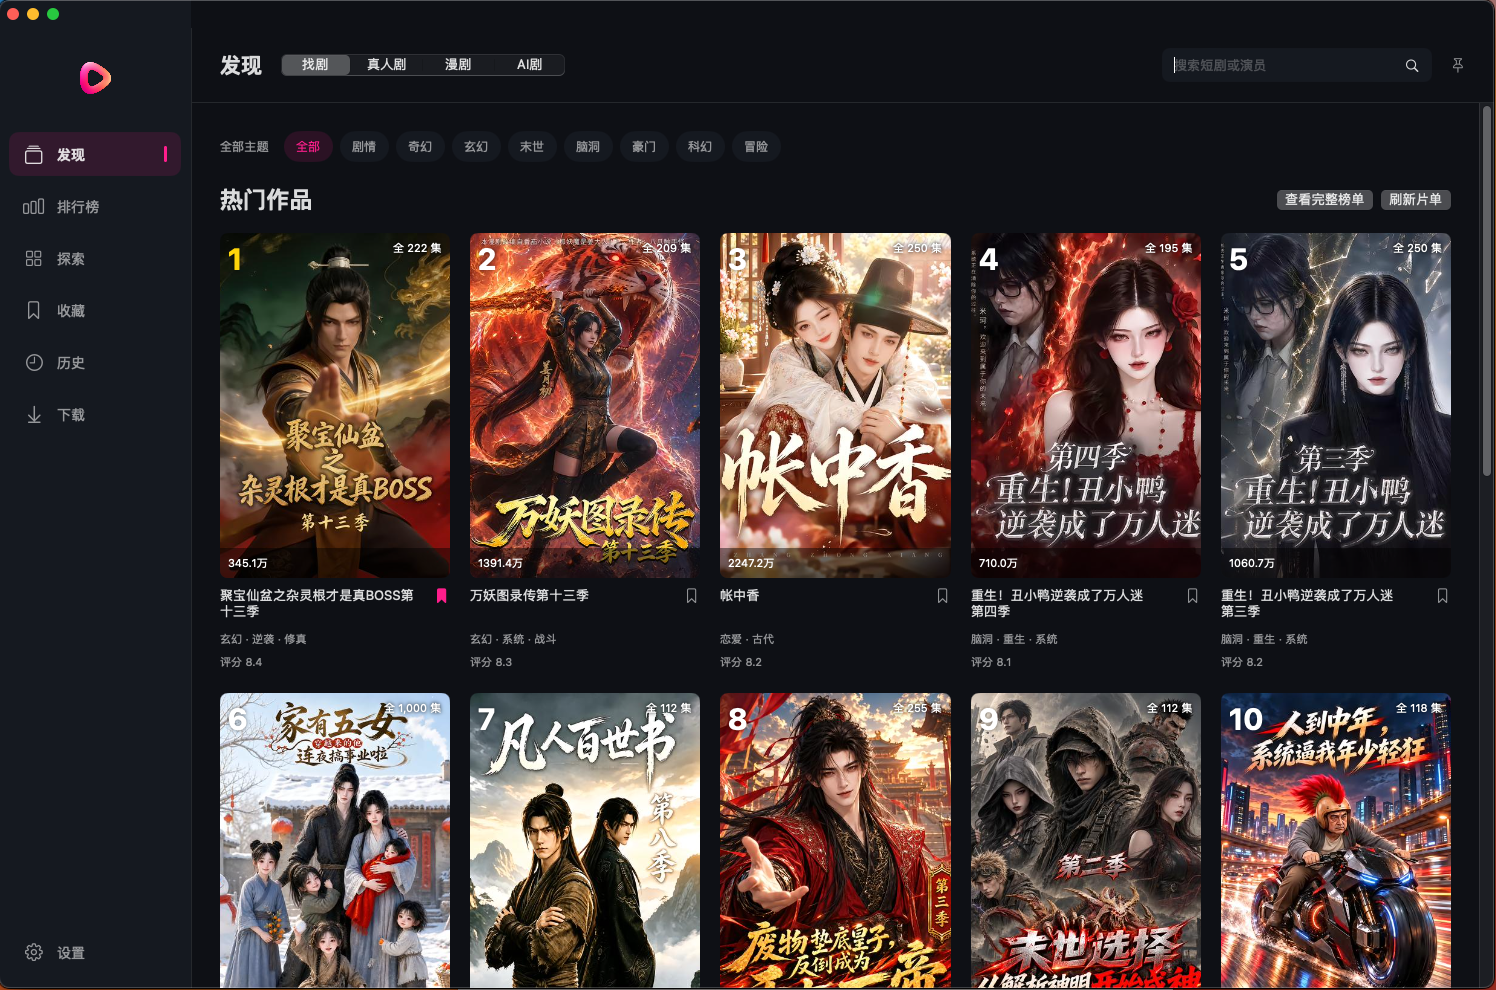
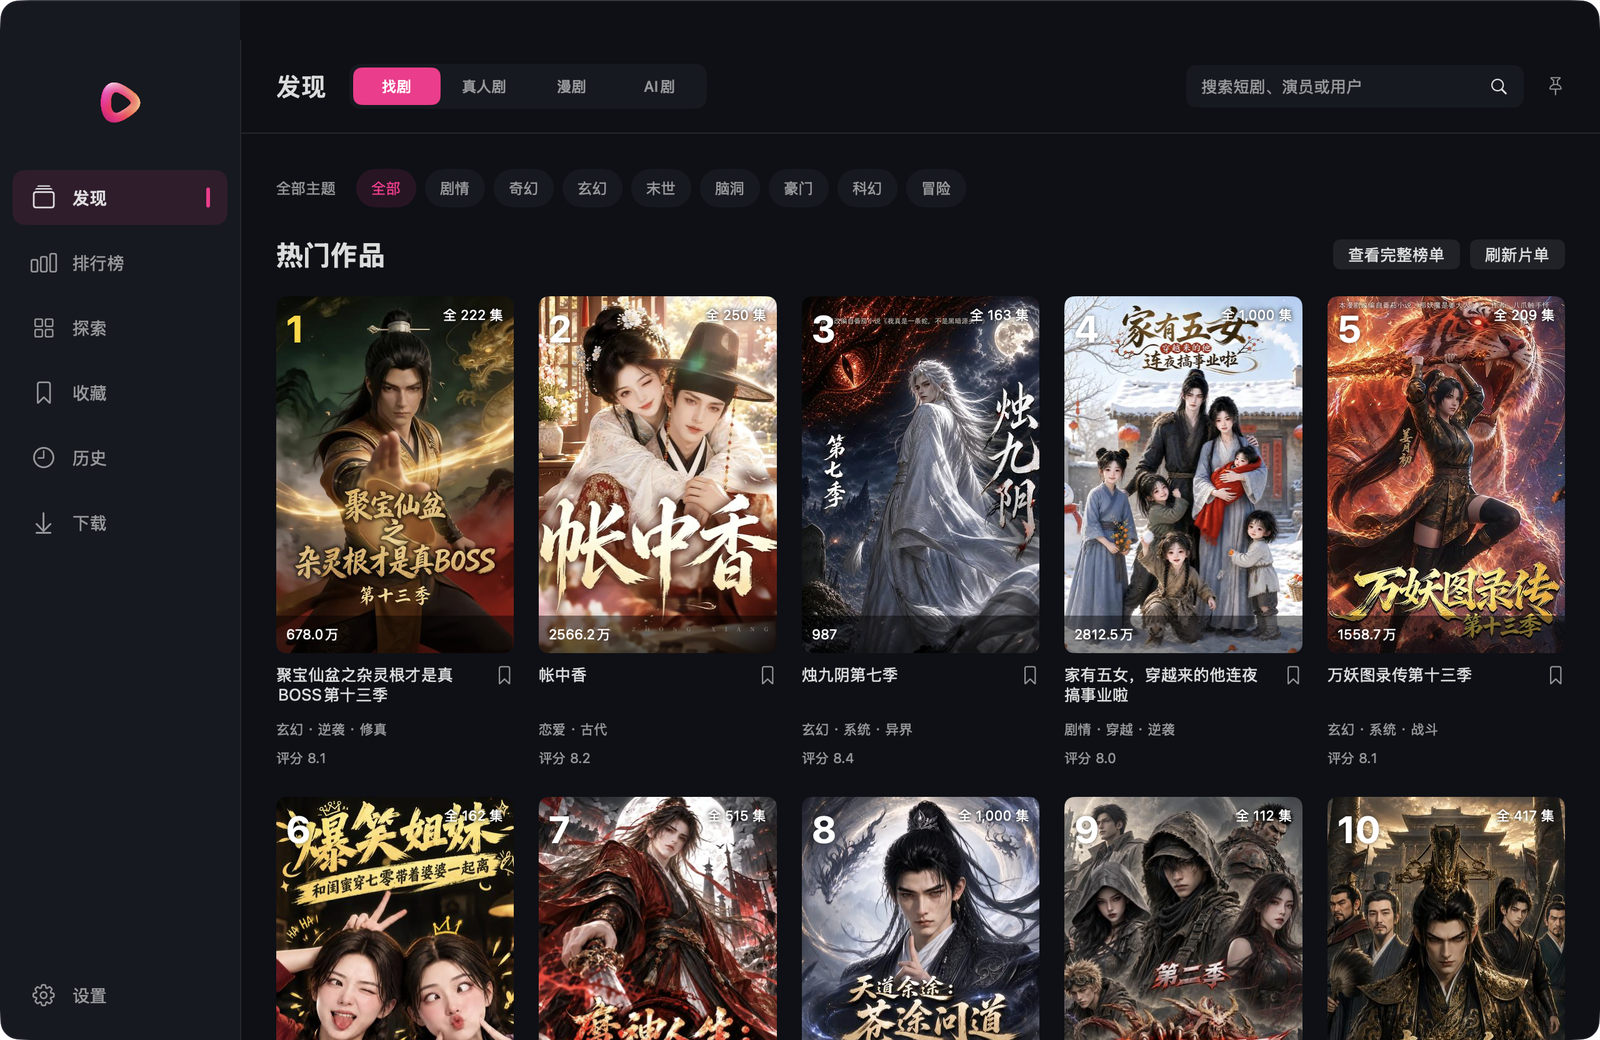
Refresh README with new screenshots and a concise feature overview

diff --git a/README.md b/README.md
@@ -6,82 +6,60 @@
 
 <p align="center">Mac 上点进就播，下次回来接着看。</p>
 
-[![Release](https://img.shields.io/github/v/release/JialaoLiu/hongguo-mac-release?label=release&color=ff1f8c)](https://github.com/JialaoLiu/hongguo-mac-release/releases/latest)
-[![Build](https://img.shields.io/badge/build-41%20%7C%20macOS%2013%2B%20arm64-303036)](https://github.com/JialaoLiu/hongguo-mac-release/releases/latest)
+<p align="center">
+  <a href="https://github.com/JialaoLiu/hongguo-mac-release/releases/latest"><img src="https://img.shields.io/github/v/release/JialaoLiu/hongguo-mac-release?label=release&color=ff1f8c" alt="Release" /></a>
+  <a href="https://github.com/JialaoLiu/hongguo-mac-release/releases/latest"><img src="https://img.shields.io/badge/build-41%20%7C%20macOS%2013%2B%20arm64-303036" alt="Build" /></a>
+</p>
 
-## 为什么做这个
+<p align="center">
+  <a href="https://github.com/JialaoLiu/hongguo-mac-release/releases/latest"><b>下载最新版</b></a> ·
+  <a href="https://github.com/JialaoLiu/hongguo-mac-release/issues">反馈问题</a> ·
+  <a href="docs/BUGS.md">问题与修复记录</a> ·
+  <a href="#项目声明">项目声明</a>
+</p>
 
-起因很简单：我先看到了 [waligoraamodio288-rgb 的红果桌面版](https://github.com/waligoraamodio288-rgb/hongguo-desktop-releases)。作为一个摸鱼党，也想在 Mac 上用，但当时没找到能直接拿来用的 Mac 版本。
-
-那就自己 vibe 一个。先做给自己用，也放出来给大家一起用。
-
-**不用手机 App，不用另装 Java、FFmpeg 或 Homebrew。** 找剧、选集、续播、看评论，在一个桌面窗口里完成。
-
-**当前版本：0.8.0 · build 41**
-
-[下载安装包](https://github.com/JialaoLiu/hongguo-mac-release/releases/latest) · [反馈问题](https://github.com/JialaoLiu/hongguo-mac-release/issues) · [问题与修复记录](docs/BUGS.md) · [使用许可](LICENSE) · [项目声明](#项目声明)
+起因很简单：我先看到了 [waligoraamodio288-rgb 的红果桌面版](https://github.com/waligoraamodio288-rgb/hongguo-desktop-releases)。作为一个摸鱼党，也想在 Mac 上用，但当时没找到能直接拿来用的 Mac 版本，那就自己 vibe 一个。
 
 ## 界面预览
 
-**首页 · 浅色**
+**浅色**
 
-![首页，五列两行展示热门作品](images/screenshots/discover-light.png)
+![首页：热门作品与分类](images/screenshots/discover-light.png)
 
-**正在观看**
+![观看页：弹幕、简介与选集，看过的集显示为灰色](images/screenshots/watching-light.png)
 
-![在线播放、简介与选集](images/screenshots/watching-light.png)
+**深色**
+
+![全屏播放时在右侧展开评论卡片](images/screenshots/fullscreen-panel.png)
+
+![观看页的评论区与楼中楼](images/screenshots/comments-dark.png)
+
+![深色首页](images/screenshots/discover-dark.png)
 
 ## 下载与安装
 
-支持 **Apple Silicon（M 系列）和 macOS 13 及以上**。Intel（x86_64）版仍在适配，尚未提供安装包。
+支持 Apple Silicon（M 系列）、macOS 13 及以上。Intel 版仍在适配。
 
-1. 在 [Releases 下载最新版](https://github.com/JialaoLiu/hongguo-mac-release/releases/latest)的 `HongguoDrama-<版本>-arm64.dmg`。
-2. 打开 DMG，把 **红果短剧.app** 拖到右侧 **Applications**。
-3. 从 Applications 打开红果短剧。首次打开被拦截时，按下方带图步骤操作。
+1. 在 [Releases](https://github.com/JialaoLiu/hongguo-mac-release/releases/latest) 下载 `HongguoDrama-<版本>-arm64.dmg`。
+2. 打开 DMG，把 **红果短剧.app** 拖到 **Applications**。
+3. 从 Applications 打开。首次打开被拦截时，按[下方步骤](#首次打开被拦截怎么办)操作。
 
-只需下载 DMG，无需单独下载运行组件 ZIP，也不用另装 Java 或 FFmpeg。
+## 功能
 
-## 0.8.0 更新
-
-可以搜索普通用户，查看对方公开的收藏和点赞短剧，评论里点头像也能进入主页；对方设为仅自己可见的列表不会显示。全屏时右侧可展开简介、选集和评论，新增隔空播放，刘海屏全屏不再被遮挡。修复切集后残留上一集弹幕、进出全屏或切回应用后弹幕消失、全屏弹幕过快等问题，评论区和播放控件也重新设计。完整改动与验证记录见 [0.8.0 Release](https://github.com/JialaoLiu/hongguo-mac-release/releases/tag/v0.8.0)。
-
-## 看剧顺手，找剧省事
-
-| 想做什么 | 直接怎么用 |
+| | |
 | --- | --- |
-| 找一部剧 | 搜索剧名或演员，切换真人剧、漫剧、AI 剧 |
-| 看看别人在追什么 | 搜索切到“用户”，或在评论里点头像，查看对方公开的收藏和点赞短剧；未公开的不显示 |
-| 不知道看什么 | 看热播榜、刷发现页，探索里按主题筛选 |
-| 接着上次看 | 点进剧集就续播；没看过的从第一集开始 |
-| 找下一季 | 在相关作品里直接切换同系列其他季 |
-| 边做事边看 | 开启画中画小窗，主窗口自动收起；也可以切换视频全屏 |
-| 连着看不息屏 | 设置中开启“播放时防止屏幕休眠”，暂停后恢复系统设置 |
-| 调整播放 | 选画质、调倍速、拖进度；长按右方向键临时 2 倍速，松开恢复；全屏左侧调亮度，右侧调音量 |
-| 看弹幕 | 手动打开后记住选择，默认关闭；按 D 快速开关，可调透明度、速度、行数和字号 |
-| 投到电视 | 控制栏点“隔空播放”，选择 Apple TV 等设备 |
-| 查看快捷键 | 播放页点击问号；M 静音／恢复音量，首次观看会出现简短提示 |
-| 临时藏起来 | Command+B 暂停、静音并隐藏窗口，再按一次恢复；不改变系统音量 |
-| 看大家怎么说 | 当前集评论与原版表情，回复原位展开、每页 10 条；近期显示几小时前／几天前 |
-| 离线追剧 | 播放页缓存选集；下载页点击播放或继续观看，显示进度和速度，可全部下载／暂停或批量删除，全屏也能直接选集 |
-| 连着看下一集 | 选集上方开启自动下一集，默认打开；下一集提前缓存，自动缓存约 512 MB |
-| 专心看画面 | 简介、相关作品、评论分开展示，右栏可收起，播放控件自动隐藏；全屏时也能按 X 展开右侧卡片，指针随控件隐藏 |
-| 留着以后看 | 收藏和观看记录保存在本机 |
-| 换个外观 | 默认跟随系统，也可以选择浅色或深色 |
-| 更新软件 | 设置里检查更新，下载完成后自动替换并重启 |
+| 找剧 | 搜索剧名或演员；热播榜、发现页、按主题筛选，同系列其他季一键切换 |
+| 接着看 | 点进剧集就续播，看过的集显示为灰色；自动下一集并提前缓存 |
+| 弹幕 | 当前集真实弹幕，按 D 开关；可调透明度、速度、行数和字号 |
+| 全屏 | 按 X 在右侧展开简介、选集、评论，不遮挡画面；刘海屏不挡标题 |
+| 小窗与投屏 | 画中画悬浮播放；隔空播放到 Apple TV 等设备 |
+| 评论 | 当前集评论与楼中楼，支持原版表情 |
+| 离线 | 缓存选集，下载页直接播放，显示进度和速度 |
+| 快捷键 | 空格播放、← / → 跳 5 秒、长按 → 二倍速、↑ / ↓ 切集、M 静音、D 弹幕、X 侧栏、Command+B 隐藏窗口 |
 
-排行榜与探索下滑自动追加，不用反复点“加载更多”。左上角 Logo 一点，就回首页。导航、分类和榜单切换有轻量动效。
+收藏与观看记录只保存在本机。外观默认跟随系统，也可以手动选择浅色或深色。设置里可以检查更新，下载后自动替换并重启。
 
-在线播放保留左侧菜单，下载播放时自动收起，点“返回”恢复。换集时保留右侧选集区的滚动位置。下载剧集全屏观看时，右下角点“选集”即可展开深灰集数面板，只显示已下载的集数，切集后继续保持全屏。
-
-## 小窗也能接着看
-
-播放器点“画中画”，视频悬浮在其他窗口上方，主窗口自动最小化。暂停、继续播放和自动换集都可以在小窗状态下使用；回到主窗口后接着看。
-
-## 深色外观
-
-默认跟随系统，也可以在设置中随时切换浅色或深色。
-
-![深色模式下的首页](images/screenshots/discover-dark.png)
+最近一次更新见 [0.8.0 Release](https://github.com/JialaoLiu/hongguo-mac-release/releases/tag/v0.8.0)：全屏右侧卡片、隔空播放、弹幕切集与全屏问题修复，评论区和播放控件重新设计。
 
 ## 首次打开被拦截怎么办？
 
